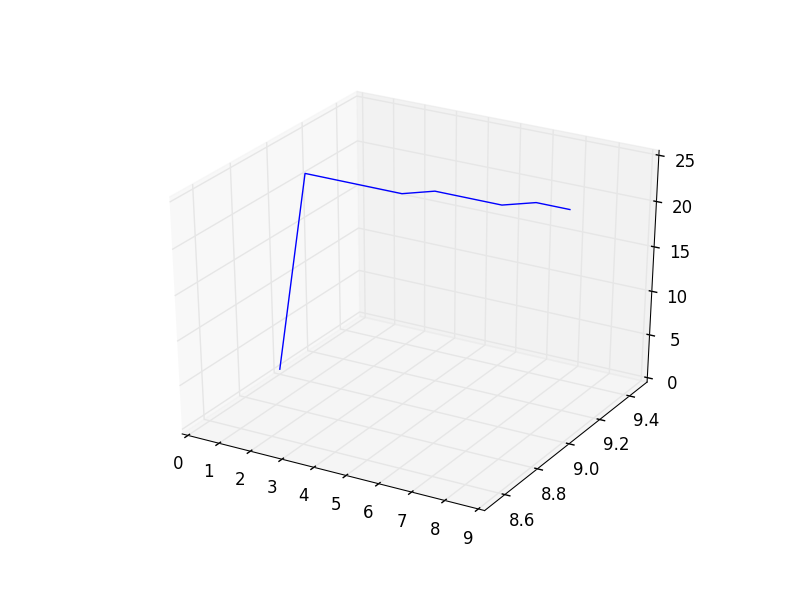
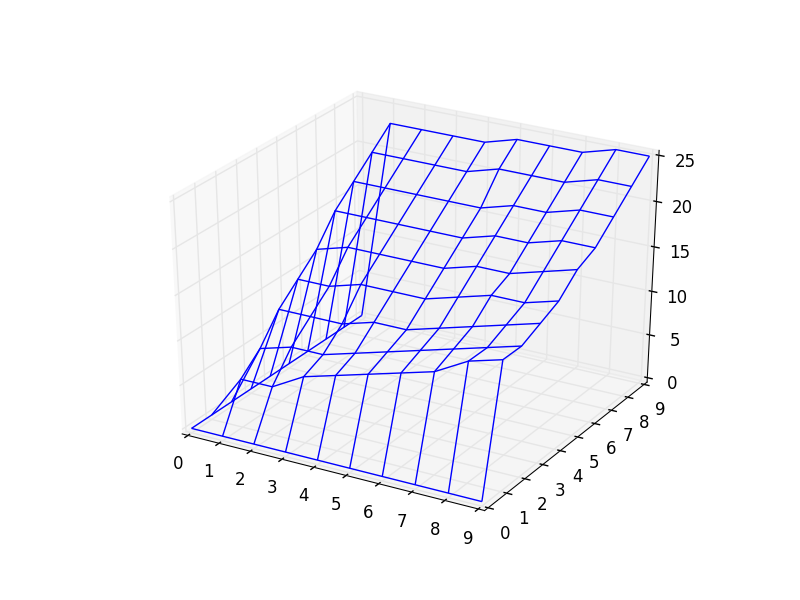
changes

diff --git a/DiagonalMatrixScaling.py b/DiagonalMatrixScaling.py
@@ -68,26 +68,29 @@ while i < 5:
         if j != 0 and i !=0:
             #rendering plots now:
             k = 0
+            X = []
+            Y = []
+            Z = []
             while k < 10:
-                X = []
-                Y = []
-                Z = []
                 h = 0
+                X.append(k)
+                Y.append(k)
+                Z.append([])
                 while h < 10:
-                    X.append(h)
-                    Y.append(k)
+                
                     teal = DiagonalNewton(np.array([0,0]),np.array([h,k]), np.diag(np.array([i,j])),.001)
                     if teal != None:
-                        Z.append(teal[2])
+                        Z[k].append(teal[2])
                     else:
-                        Z.append(0)
+                        Z[k].append(0)
                     h+=1
     
                 k+=1
             fig = plt.figure()
             ax = plt.axes(projection='3d')
-            ax.plot_wireframe(X, Y, Z)
-            plt.savefig("Image: "+str(i)+ ","+str(j))
+            xx,yy = np.meshgrid(X,Y)
+            ax.plot_wireframe(xx, yy, Z)
+            plt.savefig("Image: "+str(i)+ ","+str(j), cmap=plt.cm.jet, rstride=.01, cstride=.01, linewidth=1,alpha=0)
             
         j+=1
     i+=1
